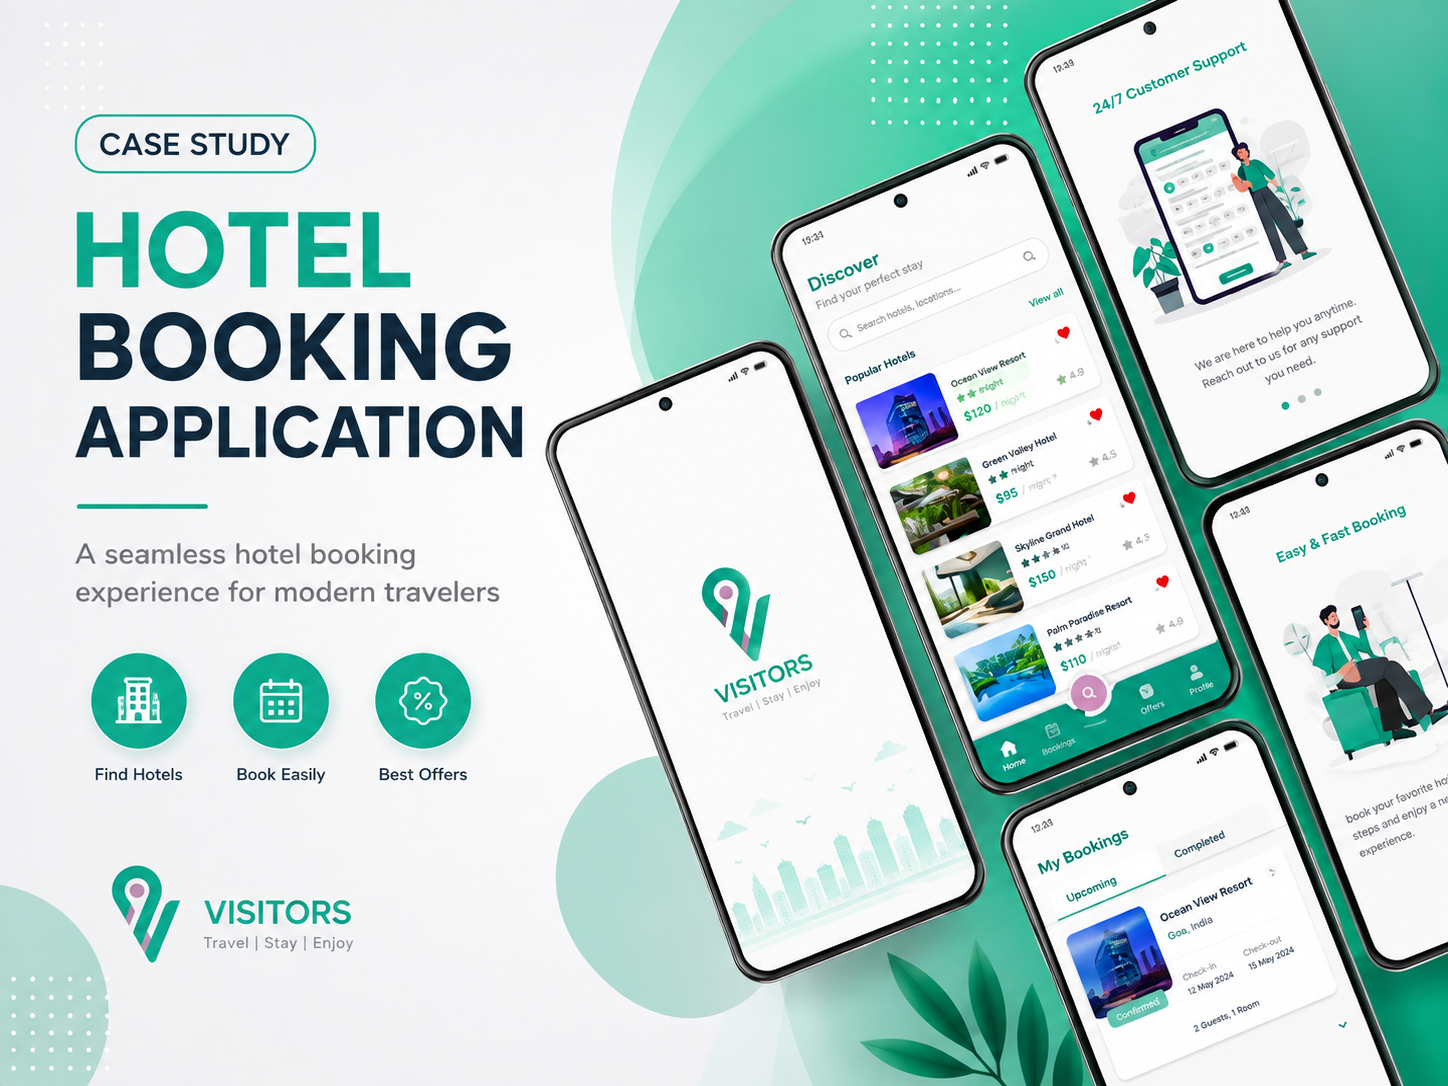
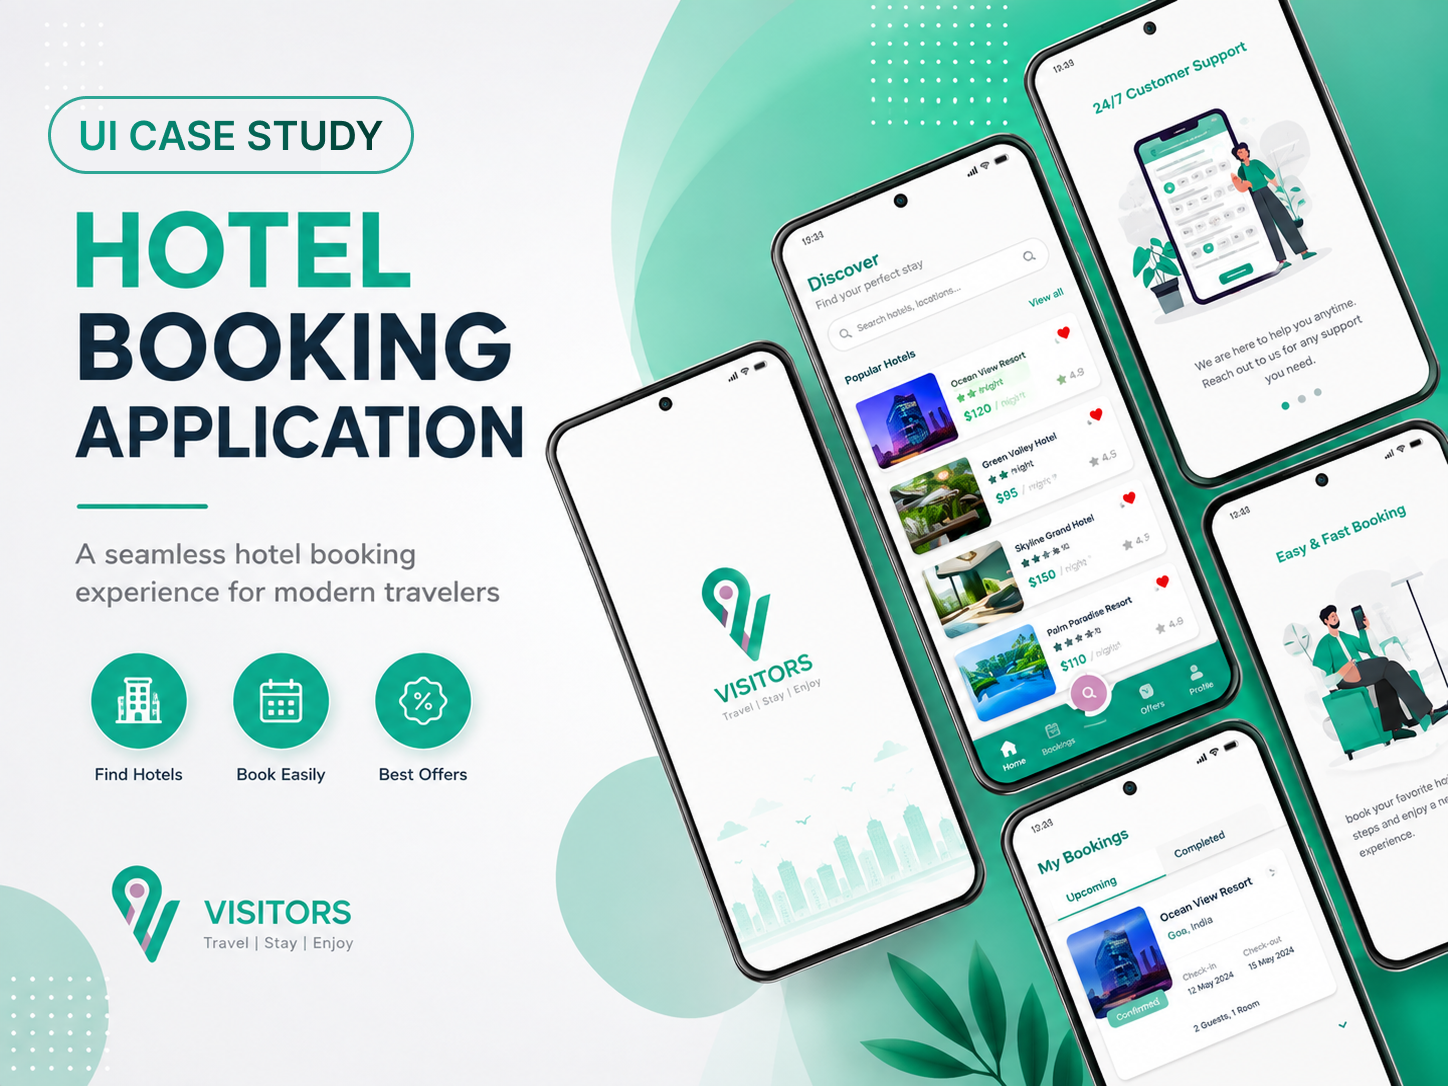
update the work thubnail image chnage the nav bar for mobile

Changed region(s): [[0.0311, 0.0912, 0.2797, 0.1519]]

diff --git a/Javascript/javascript.js b/Javascript/javascript.js
@@ -15,7 +15,6 @@
 const navMobile = document.getElementById("nav-mobile");
 const menuIcon = document.querySelector(".menuIcon");
 const navMobileBackdrop = document.getElementById("nav-mobile-backdrop");
-const mobileClose = document.querySelector(".mobile-close");
 const mobileLinks = document.querySelectorAll("#nav-mobile a");
 
 
@@ -69,10 +68,6 @@ menuIcon.addEventListener("click", () => {
 /* =========================================
    CLOSE BUTTON
 ========================================= */
-
-mobileClose.addEventListener("click", () => {
-    closeMobileMenu();
-});
 
 
 /* =========================================
@@ -301,39 +296,42 @@ const fixed = document.getElementById("fixedElement");
 
 // ---------------------------cursor change--------------//
 const cursor = document.querySelector(".cursor-circle");
+const width = window.innerWidth;
+console.log("width=======================", width);
+if (width > 820) {
+    if (cursor) {
 
-if (cursor) {
+        let mouseX = 0;
+        let mouseY = 0;
 
-    let mouseX = 0;
-    let mouseY = 0;
-
-    let cursorX = 0;
-    let cursorY = 0;
-
-
-    document.addEventListener("mousemove", (event) => {
-
-        mouseX = event.clientX;
-        mouseY = event.clientY;
-
-    });
+        let cursorX = 0;
+        let cursorY = 0;
 
 
-    function animateCursor() {
+        document.addEventListener("mousemove", (event) => {
 
-        cursorX += (mouseX - cursorX) * 0.15;
-        cursorY += (mouseY - cursorY) * 0.15;
+            mouseX = event.clientX;
+            mouseY = event.clientY;
 
-        cursor.style.transform =
-            `translate3d(${cursorX}px, ${cursorY}px, 0) translate(-50%, -50%)`;
+        });
 
-        requestAnimationFrame(animateCursor);
+
+        function animateCursor() {
+
+            cursorX += (mouseX - cursorX) * 0.15;
+            cursorY += (mouseY - cursorY) * 0.15;
+
+            cursor.style.transform =
+                `translate3d(${cursorX}px, ${cursorY}px, 0) translate(-50%, -50%)`;
+
+            requestAnimationFrame(animateCursor);
+
+        }
+
+
+        animateCursor();
 
     }
-
-
-    animateCursor();
-
 }
 
 

diff --git a/styles.css b/styles.css
@@ -576,11 +576,11 @@ ul {
 #nav-mobile {
     position: absolute;
 
-    top: 10px;
+    top: 72px;
     right: 10px;
 
-    width: min(360px, calc(100% - 20px));
-    height: calc(100% - 20px);
+    width: fit-content;
+    height: calc(100% - 82px);
 
     box-sizing: border-box;
 
@@ -616,7 +616,7 @@ ul {
 /* Open state */
 
 #nav-mobile.show {
-    right: 10px;
+    right: 12px;
 
     transform: translateX(0);
 
@@ -712,7 +712,7 @@ ul {
 
     gap: 28px;
 
-    padding: 35px 5px 10px;
+    padding: 5px 5px 10px;
 
     background: transparent;
 
@@ -726,7 +726,7 @@ ul {
 
 .headerMenu-mobile .navHover {
     display: flex;
-
+    align-items: center;
     flex-direction: column;
 
     gap: 5px;
@@ -839,6 +839,13 @@ ul {
 
 }
 
+@media screen and (max-width: 768px) {
+    #nav-mobile {
+        top: 86px;
+        height: calc(100% - 90px);
+    }
+}
+
 
 /* =========================================================
    SMALL MOBILE
@@ -870,11 +877,11 @@ ul {
 
 
     #nav-mobile {
-        top: 7px;
-        right: 7px;
+        top: 86px;
+        right: 12px;
 
-        width: calc(100% - 14px);
-        height: calc(100% - 14px);
+        width: fit-content;
+        height: calc(100% - 90px);
 
         padding: 18px;
 
@@ -925,11 +932,12 @@ ul {
 
     #nav-mobile {
         padding: 15px;
+        top: 82px;
     }
 
 
     .headerMenu-mobile {
-        padding-top: 28px;
+        padding-top: 5px;
     }
 
 

diff --git a/Html/latestWork.html b/Html/latestWork.html
@@ -195,7 +195,7 @@
 
                 <div class="work-image-wrapper">
 
-                    <img src="./Img/UI_Case_study.png" alt="Dashboard UI Design" class="current-work">
+                    <img src="./Img/UX_Case_study.png" alt="Dashboard UI Design" class="current-work">
 
                     <div class="work-overlay"></div>
 
@@ -235,7 +235,7 @@
 
             </article>
             <article class="current-work-main" data-category="design"
-                data-link="https://www.behance.net/gallery/190634923/Dashboard-Portfolio">
+                data-link="https://www.behance.net/gallery/190555481/UI-case-study-for-Hotel-booking-application">
 
                 <div class="work-top">
 
@@ -253,7 +253,7 @@
 
                 <div class="work-image-wrapper">
 
-                    <img src="./Img/Dashboard.png" alt="Dashboard UI Design" class="current-work">
+                    <img src="./Img/UI_Case_study.png" alt="Dashboard UI Design" class="current-work">
 
                     <div class="work-overlay"></div>
 
@@ -275,7 +275,7 @@
                     <div>
 
                         <p class="current-work-name">
-                            Dashboard UI
+                            UI-case-study-for-Visitors-Hotel-booking-application
                         </p>
 
                         <p class="work-description">

diff --git a/index.html b/index.html
@@ -85,7 +85,7 @@
                 </li>
 
                 <li>
-                    <a href="#latestWork">Portfolio</a>
+                    <a href="#LatestWork">Latest Work</a>
                 </li>
 
             </ul>
@@ -114,18 +114,6 @@
     <div id="nav-mobile-backdrop">
 
         <nav id="nav-mobile">
-
-            <div class="mobile-menu-header">
-
-                <span>Navigation</span>
-
-                <button type="button" class="mobile-close" aria-label="Close navigation">
-                    ×
-                </button>
-
-            </div>
-
-
             <div class="headerMenu-mobile">
 
                 <ul class="navHover">
@@ -143,7 +131,7 @@
                     </li>
 
                     <li>
-                        <a href="#latestWork">Portfolio</a>
+                        <a href="#LatestWork">Latest Work</a>
                     </li>
 
                 </ul>
